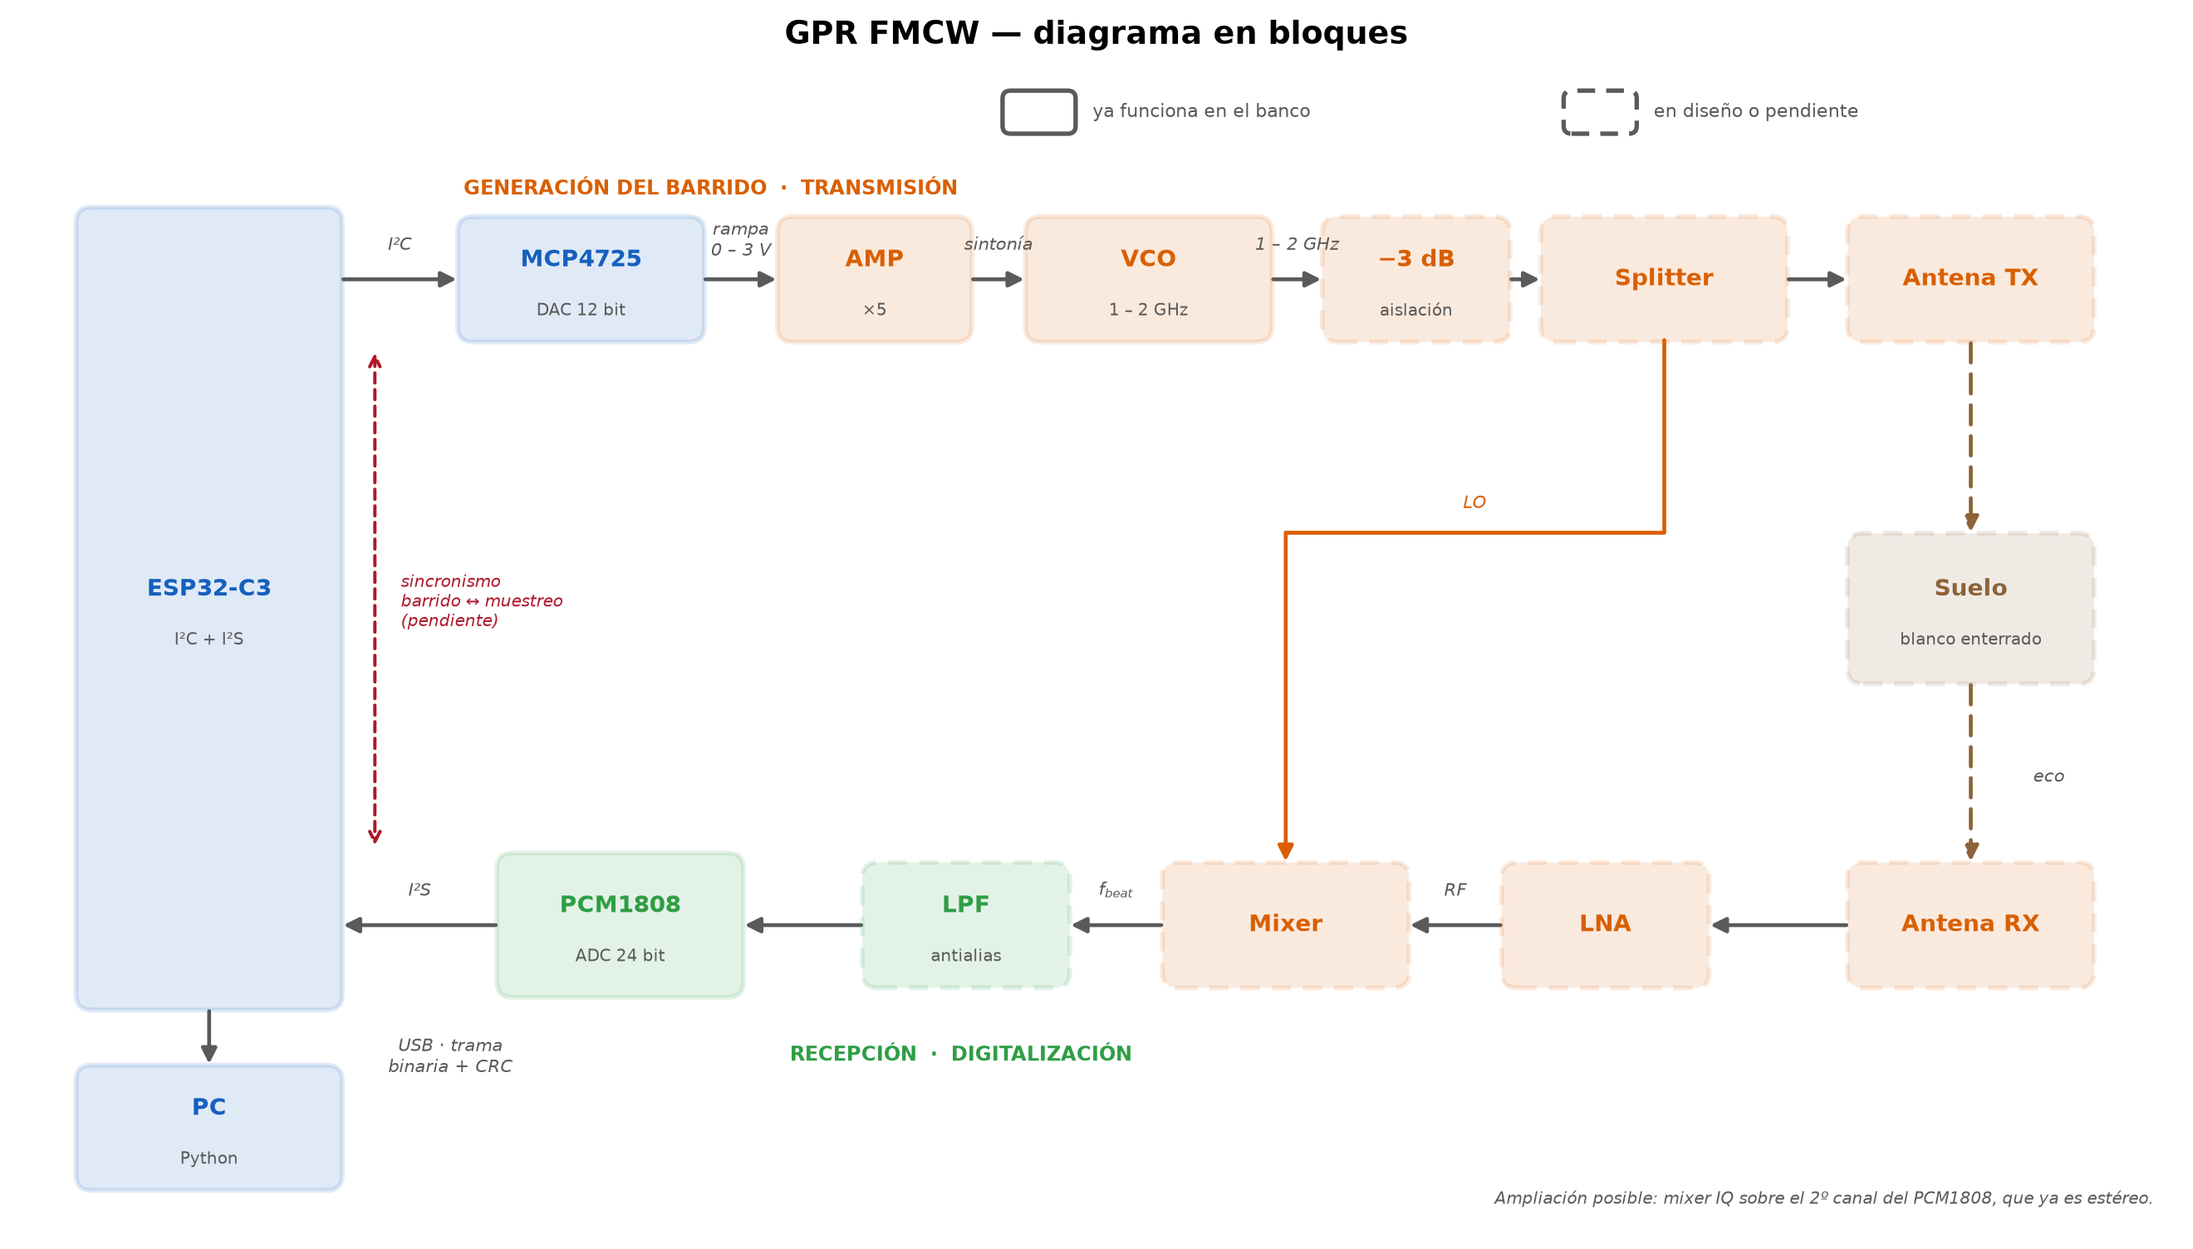
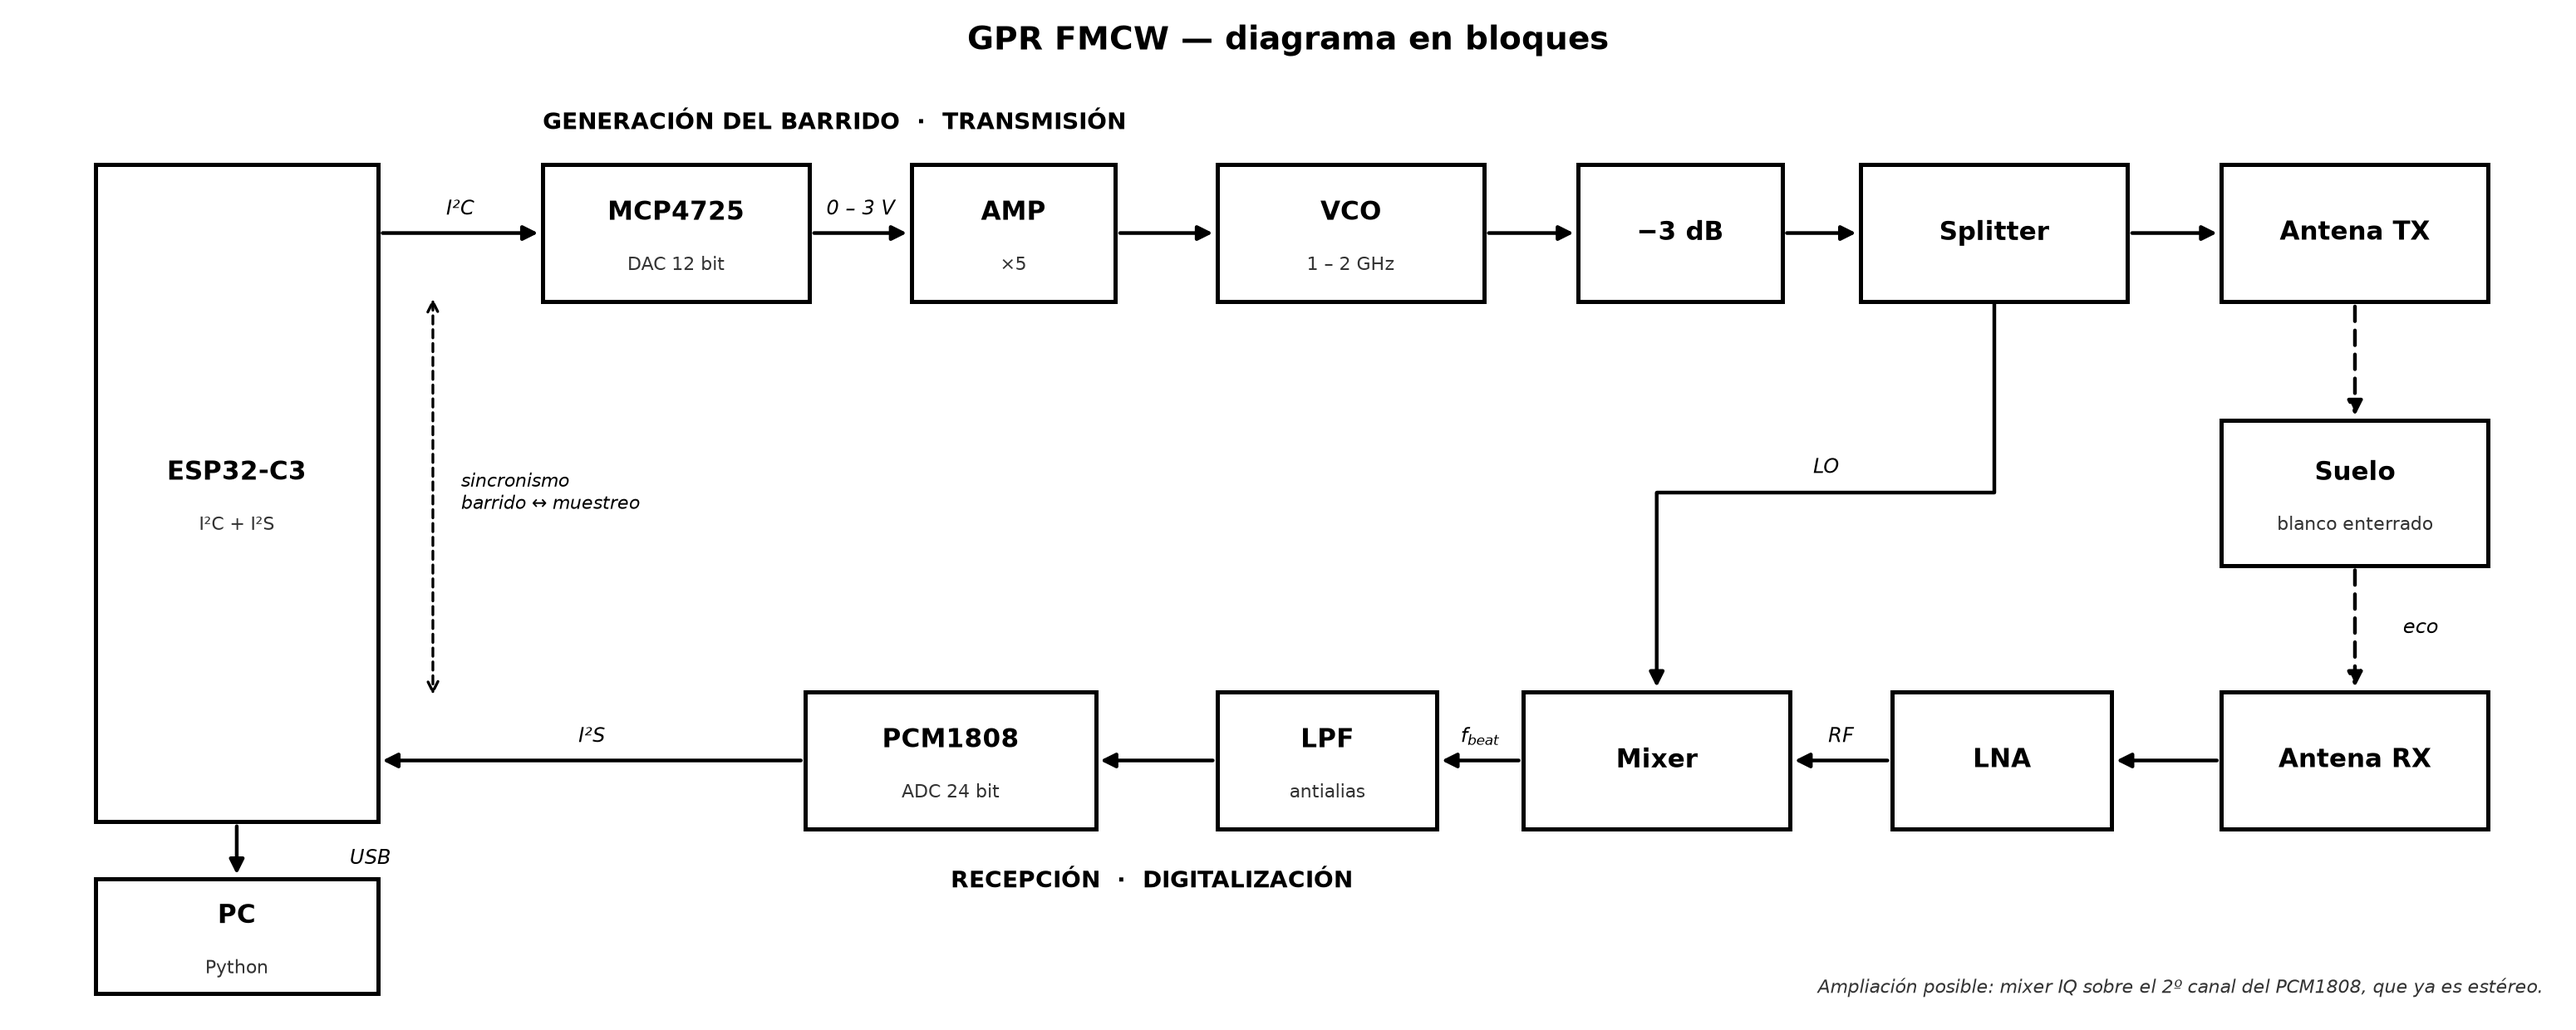
docs: diagrama de bloques mas compacto y en blanco y negro
Cajas blancas con borde negro y esquinas vivas, sin codigo de colores ni
distincion de estado. Asi se imprime en blanco y negro y se proyecta sin
depender del color.

Ademas se compacto: 15.5x6.2 pulgadas contra 16.5x9.4, sacando el espacio
vertical muerto del medio, acortando las etiquetas de las flechas y bajando
la leyenda.

Se saco la etiqueta "1 - 2 GHz" entre el VCO y el atenuador: pisaba las dos
cajas y ademas era redundante, el propio bloque del VCO ya la lleva adentro.

diff --git a/docs/diagrama_bloques.py b/docs/diagrama_bloques.py
@@ -3,12 +3,13 @@ Diagrama en bloques del GPR FMCW.
 
     python diagrama_bloques.py   ->   diagrama_bloques.png
 
-Borde lleno    = ya funciona en el banco
-Borde punteado = en diseño o pendiente
+Estilo sobrio para informe y presentacion: cajas blancas, borde negro, esquinas
+vivas. Sin codigo de colores ni marcas de estado, para que se pueda imprimir en
+blanco y negro y proyectar sin depender del color.
 
 Es la version de UN canal, que es el alcance de la tesis. El mixer IQ queda
-como ampliacion posible al final: el PCM1808 es estereo, asi que el camino
-para el segundo canal ya existe en el hardware.
+como ampliacion posible: el PCM1808 es estereo, asi que el camino para el
+segundo canal ya existe en el hardware.
 
 El ESP32-C3 va como un solo bloque alto a la izquierda para que se vea que
 atiende las DOS puntas de la cadena: genera la rampa por I2C y digitaliza el
@@ -19,36 +20,30 @@ barrido y el reloj de muestreo.
 import matplotlib
 matplotlib.use("Agg")
 import matplotlib.pyplot as plt
-from matplotlib.patches import FancyBboxPatch, FancyArrowPatch
+from matplotlib.patches import Rectangle, FancyArrowPatch
 
-DIGITAL = "#1560BD"      # control y datos
-RF      = "#D95F02"      # radiofrecuencia
-BANDA   = "#2E9E45"      # banda base analogica
-TIERRA  = "#8C6239"
-GRIS    = "#5A5A5A"
-ROJO    = "#B0182C"
+LW_CAJA = 1.8
+LW_LINEA = 1.6
 
-W, H = 1.85, 0.95
-
-# nombre -> (x, y, ancho, alto, titulo, subtitulo, color, ya_funciona)
+# nombre -> (x, y, ancho, alto, titulo, subtitulo)
 CAJAS = {
-    "esp":   (1.45, 4.85, 2.00, 6.30, "ESP32-C3", "I²C + I²S", DIGITAL, True),
-    "pc":    (1.45, 0.75, 2.00, 0.95, "PC", "Python", DIGITAL, True),
+    "esp":   (1.35, 3.30, 1.80, 4.30, "ESP32-C3", "I²C + I²S"),
+    "pc":    (1.35, 0.40, 1.80, 0.75, "PC", "Python"),
 
-    "dac":   (4.30, 7.45, W, H, "MCP4725", "DAC 12 bit", DIGITAL, True),
-    "amp":   (6.55, 7.45, 1.45, H, "AMP", "×5", RF, True),
-    "vco":   (8.65, 7.45, W, H, "VCO", "1 – 2 GHz", RF, True),
-    "att":   (10.70, 7.45, 1.40, H, "−3 dB", "aislación", RF, False),
-    "split": (12.60, 7.45, W, H, "Splitter", "", RF, False),
-    "antx":  (14.95, 7.45, W, H, "Antena TX", "", RF, False),
+    "dac":   (4.15, 5.00, 1.70, 0.90, "MCP4725", "DAC 12 bit"),
+    "amp":   (6.30, 5.00, 1.30, 0.90, "AMP", "×5"),
+    "vco":   (8.45, 5.00, 1.70, 0.90, "VCO", "1 – 2 GHz"),
+    "att":   (10.55, 5.00, 1.30, 0.90, "−3 dB", ""),
+    "split": (12.55, 5.00, 1.70, 0.90, "Splitter", ""),
+    "antx":  (14.85, 5.00, 1.70, 0.90, "Antena TX", ""),
 
-    "suelo": (14.95, 4.85, W, 1.15, "Suelo", "blanco enterrado", TIERRA, False),
+    "suelo": (14.85, 3.30, 1.70, 0.95, "Suelo", "blanco enterrado"),
 
-    "anrx":  (14.95, 2.35, W, H, "Antena RX", "", RF, False),
-    "lna":   (12.15, 2.35, 1.55, H, "LNA", "", RF, False),
-    "mix":   (9.70, 2.35, W, H, "Mixer", "", RF, False),
-    "lpf":   (7.25, 2.35, 1.55, H, "LPF", "antialias", BANDA, False),
-    "pcm":   (4.60, 2.35, W, 1.10, "PCM1808", "ADC 24 bit", BANDA, True),
+    "anrx":  (14.85, 1.55, 1.70, 0.90, "Antena RX", ""),
+    "lna":   (12.60, 1.55, 1.40, 0.90, "LNA", ""),
+    "mix":   (10.40, 1.55, 1.70, 0.90, "Mixer", ""),
+    "lpf":   (8.30, 1.55, 1.40, 0.90, "LPF", "antialias"),
+    "pcm":   (5.90, 1.55, 1.85, 0.90, "PCM1808", "ADC 24 bit"),
 }
 
 
@@ -58,102 +53,89 @@ def borde(n, lado):
             "arr": (x, y + h / 2), "aba": (x, y - h / 2)}[lado]
 
 
-def ruta(ax, puntos, texto="", texto_xy=None, color=GRIS, ls="-"):
-    """Flecha en angulo recto: una diagonal larga cruzando el dibujo se lee
-    peor que dos tramos ortogonales."""
-    ax.plot([p[0] for p in puntos[:-1]], [p[1] for p in puntos[:-1]],
-            color=color, lw=2.1, ls=ls, zorder=2, solid_capstyle="round")
-    ax.add_patch(FancyArrowPatch(puntos[-2], puntos[-1], arrowstyle="-|>",
-                                 mutation_scale=17, color=color, lw=2.1,
-                                 linestyle=ls, shrinkA=0, shrinkB=2, zorder=2))
-    if texto:
-        ax.text(*texto_xy, texto, fontsize=9.5, color=color, style="italic",
-                ha="center", va="center")
-
-
-def flecha(ax, p1, p2, texto="", dx=0.0, dy=0.20, color=GRIS, ls="-", fs=9.5):
-    ax.add_patch(FancyArrowPatch(p1, p2, arrowstyle="-|>", mutation_scale=17,
-                                 color=color, lw=2.1, linestyle=ls,
+def flecha(ax, p1, p2, texto="", dx=0.0, dy=0.09, ls="-"):
+    ax.add_patch(FancyArrowPatch(p1, p2, arrowstyle="-|>", mutation_scale=13,
+                                 color="black", lw=LW_LINEA, linestyle=ls,
                                  shrinkA=2, shrinkB=2, zorder=2))
     if texto:
         ax.text((p1[0] + p2[0]) / 2 + dx, (p1[1] + p2[1]) / 2 + dy, texto,
-                fontsize=fs, ha="center", va="bottom", color=GRIS, style="italic")
+                fontsize=8.5, ha="center", va="bottom", color="black",
+                style="italic")
 
 
-fig, ax = plt.subplots(figsize=(16.5, 9.4))
+def ruta(ax, puntos, texto="", texto_xy=None):
+    """Flecha en angulo recto: una diagonal larga cruzando el dibujo se lee
+    peor que dos tramos ortogonales."""
+    ax.plot([p[0] for p in puntos[:-1]], [p[1] for p in puntos[:-1]],
+            color="black", lw=LW_LINEA, zorder=2, solid_capstyle="round")
+    ax.add_patch(FancyArrowPatch(puntos[-2], puntos[-1], arrowstyle="-|>",
+                                 mutation_scale=13, color="black", lw=LW_LINEA,
+                                 shrinkA=0, shrinkB=2, zorder=2))
+    if texto:
+        ax.text(*texto_xy, texto, fontsize=8.5, color="black", style="italic",
+                ha="center", va="bottom")
+
+
+fig, ax = plt.subplots(figsize=(15.5, 6.2))
 
 # --- Cajas -------------------------------------------------------------------
-for x, y, w, h, titulo, sub, color, hecho in CAJAS.values():
-    ax.add_patch(FancyBboxPatch(
-        (x - w / 2, y - h / 2), w, h,
-        boxstyle="round,pad=0.02,rounding_size=0.12",
-        linewidth=2.6, edgecolor=color, linestyle="-" if hecho else (0, (4, 2.5)),
-        facecolor=color, alpha=0.13, zorder=3))
-    ax.text(x, y + (0.15 if sub else 0.0), titulo, fontsize=12.5,
-            fontweight="bold", ha="center", va="center", color=color, zorder=4)
+for x, y, w, h, titulo, sub in CAJAS.values():
+    ax.add_patch(Rectangle((x - w / 2, y - h / 2), w, h, linewidth=LW_CAJA,
+                           edgecolor="black", facecolor="white", zorder=3))
+    ax.text(x, y + (0.13 if sub else 0.0), titulo, fontsize=11,
+            fontweight="bold", ha="center", va="center", zorder=4)
     if sub:
-        ax.text(x, y - 0.25, sub, fontsize=9, ha="center", va="center",
-                color=GRIS, zorder=4)
+        ax.text(x, y - 0.21, sub, fontsize=8, ha="center", va="center",
+                color="#333333", zorder=4)
 
 # --- Generación del barrido y transmisión ------------------------------------
-ax.text(3.40, 8.12, "GENERACIÓN DEL BARRIDO  ·  TRANSMISIÓN", fontsize=11,
-        fontweight="bold", color=RF, ha="left")
+ax.text(3.30, 5.68, "GENERACIÓN DEL BARRIDO  ·  TRANSMISIÓN", fontsize=10,
+        fontweight="bold", ha="left")
 
-flecha(ax, (borde("esp", "der")[0], 7.45), borde("dac", "izq"), "I²C")
-flecha(ax, borde("dac", "der"), borde("amp", "izq"), "rampa\n0 – 3 V", dy=0.14)
-flecha(ax, borde("amp", "der"), borde("vco", "izq"), "sintonía")
-flecha(ax, borde("vco", "der"), borde("att", "izq"), "1 – 2 GHz")
+flecha(ax, (borde("esp", "der")[0], 5.00), borde("dac", "izq"), "I²C")
+flecha(ax, borde("dac", "der"), borde("amp", "izq"), "0 – 3 V")
+flecha(ax, borde("amp", "der"), borde("vco", "izq"))
+flecha(ax, borde("vco", "der"), borde("att", "izq"))   # la banda ya está en la caja
 flecha(ax, borde("att", "der"), borde("split", "izq"))
 flecha(ax, borde("split", "der"), borde("antx", "izq"))
 
 # --- Oscilador local ---------------------------------------------------------
-ruta(ax, [borde("split", "aba"), (12.60, 5.45), (9.70, 5.45), borde("mix", "arr")],
-     "LO", (11.15, 5.68), color=RF)
+ruta(ax, [borde("split", "aba"), (12.55, 3.30), (10.40, 3.30),
+          borde("mix", "arr")], "LO", (11.48, 3.40))
 
 # --- Propagación -------------------------------------------------------------
-flecha(ax, borde("antx", "aba"), borde("suelo", "arr"), color=TIERRA,
-       ls=(0, (5, 3)))
-flecha(ax, borde("suelo", "aba"), borde("anrx", "arr"), "eco", dx=0.60, dy=-0.10,
-       color=TIERRA, ls=(0, (5, 3)))
+flecha(ax, borde("antx", "aba"), borde("suelo", "arr"), ls=(0, (4, 2.5)))
+flecha(ax, borde("suelo", "aba"), borde("anrx", "arr"), "eco", dx=0.42, dy=-0.06,
+       ls=(0, (4, 2.5)))
 
 # --- Recepción y digitalización ----------------------------------------------
-ax.text(5.90, 1.28, "RECEPCIÓN  ·  DIGITALIZACIÓN", fontsize=11,
-        fontweight="bold", color=BANDA, ha="left")
+ax.text(5.90, 0.72, "RECEPCIÓN  ·  DIGITALIZACIÓN", fontsize=10,
+        fontweight="bold", ha="left")
 
 flecha(ax, borde("anrx", "izq"), borde("lna", "der"))
 flecha(ax, borde("lna", "izq"), borde("mix", "der"), "RF")
 flecha(ax, borde("mix", "izq"), borde("lpf", "der"), "$f_{beat}$")
 flecha(ax, borde("lpf", "izq"), borde("pcm", "der"))
-flecha(ax, borde("pcm", "izq"), (borde("esp", "der")[0], 2.35), "I²S")
-flecha(ax, borde("esp", "aba"), borde("pc", "arr"), "USB · trama\nbinaria + CRC",
-       dx=1.85, dy=-0.32)
+flecha(ax, borde("pcm", "izq"), (borde("esp", "der")[0], 1.55), "I²S")
+flecha(ax, borde("esp", "aba"), borde("pc", "arr"), "USB", dx=0.85, dy=-0.12)
 
 # --- Sincronismo -------------------------------------------------------------
-ax.add_patch(FancyArrowPatch((2.72, 6.90), (2.72, 2.95), arrowstyle="<->",
-                             mutation_scale=14, color=ROJO, lw=1.8,
+ax.add_patch(FancyArrowPatch((2.60, 4.60), (2.60, 1.95), arrowstyle="<->",
+                             mutation_scale=11, color="black", lw=1.2,
                              linestyle=(0, (3, 2)), zorder=5))
-ax.text(2.92, 4.90, "sincronismo\nbarrido ↔ muestreo\n(pendiente)", fontsize=8.8,
-        color=ROJO, va="center", ha="left", style="italic")
+ax.text(2.78, 3.30, "sincronismo\nbarrido ↔ muestreo", fontsize=8,
+        va="center", ha="left", style="italic")
 
-# --- Leyenda -----------------------------------------------------------------
-for i, (txt, ls) in enumerate([("ya funciona en el banco", "-"),
-                               ("en diseño o pendiente", (0, (4, 2.5)))]):
-    ax.add_patch(FancyBboxPatch((7.55 + i * 4.30, 8.62), 0.52, 0.30,
-                                boxstyle="round,pad=0.02,rounding_size=0.06",
-                                linewidth=2.4, edgecolor=GRIS, linestyle=ls,
-                                facecolor="none"))
-    ax.text(8.22 + i * 4.30, 8.77, txt, fontsize=10, va="center", color=GRIS)
-
-ax.text(16.35, 0.15,
+ax.text(16.05, 0.03,
         "Ampliación posible: mixer IQ sobre el 2º canal del PCM1808, que ya es estéreo.",
-        fontsize=9, color=GRIS, style="italic", ha="right")
+        fontsize=8, color="#333333", style="italic", ha="right")
 
-ax.set_xlim(0, 16.5)
-ax.set_ylim(-0.05, 9.25)
+ax.set_xlim(0, 16.1)
+ax.set_ylim(-0.05, 6.15)
 ax.axis("off")
-ax.set_title("GPR FMCW — diagrama en bloques", fontsize=17, fontweight="bold",
+ax.set_title("GPR FMCW — diagrama en bloques", fontsize=14, fontweight="bold",
              pad=2)
 
 plt.tight_layout()
-plt.savefig("diagrama_bloques.png", dpi=160)
+plt.savefig("diagrama_bloques.png", dpi=200)
 print("Generado: diagrama_bloques.png")
